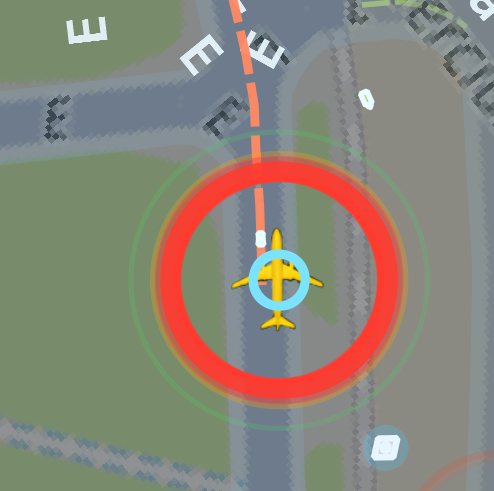
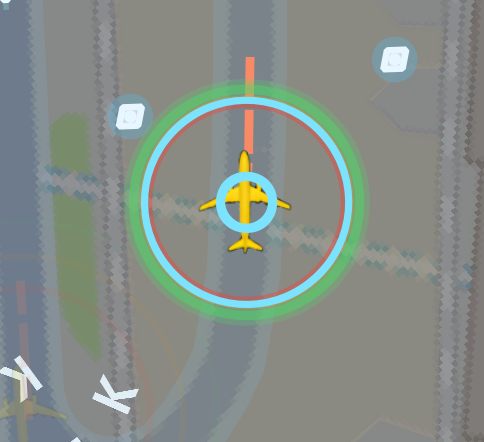
Sync README with new screenshot titles and scenarios

diff --git a/README.md b/README.md
@@ -27,48 +27,48 @@ Las siguientes capturas muestran el comportamiento operativo del radar en escena
 
 Guarda tus imagenes en docs/images con estos nombres para mantener la galeria sincronizada:
 
-- 01-ruta-directa-alerta.png
-- 02-rama-predictiva-alerta.png
-- 03-anillo-critico.png
+- 01-anillo-critico-trayectoria-peligrosa.png
+- 02-anillo-sin-amenaza-trayectoria-segura.png
+- 03-anillo-critico.-trayectoria critica.png
 - 04-anillo-estable.png
-- 05-tooltip-operativo.png
-- 06-contexto-zoom-out.png
+- 05-anillo-critico-trayectoria-critica.png
+- 06-anillo-semi-critico-trayectoria-critica.png
 
-### 1) Ruta directa con alerta de proximidad
+### 1) 01-anillo-critico-trayectoria-peligrosa
 
-![Ruta directa con alerta](docs/images/01-ruta-directa-alerta.png)
+![01-anillo-critico-trayectoria-peligrosa](docs/images/01-anillo-critico-trayectoria-peligrosa.png)
 
 Lectura: aeronave seleccionada con halo cian y anillo rojo dominante, indicando condicion de riesgo en el entorno inmediato mientras sigue una trayectoria proyectada la cual al encontrarse el color anaranjado indica una posible colision.
 
-### 2) Prediccion de ramas de trayectoria
+### 2) 02-anillo-sin-amenaza-trayectoria-segura
 
-![Rama predictiva](docs/images/02-rama-predictiva-alerta.png)
+![02-anillo-sin-amenaza-trayectoria-segura](docs/images/02-anillo-sin-amenaza-trayectoria-segura.png)
 
 Lectura: se observan ramificaciones punteadas en azul que representan alternativas de movimiento seguro en nodos cercanos de la red de rodaje.
 
-### 3) Estado critico consolidado
+### 3) 03-anillo-critico.-trayectoria critica
 
-![Anillo critico](docs/images/03-anillo-critico.png)
+![03-anillo-critico.-trayectoria critica](docs/images/03-anillo-critico.-trayectoria%20critica.png)
 
-Lectura: anillo rojo amplio y persistente con capas externas de referencia, util para priorizacion visual de amenazas en tiempo real.
+Lectura: trayectoria critica con anillo rojo consolidado y capas de soporte, priorizando la atencion del operador sobre posible conflicto.
 
-### 4) Estado estable con margen de seguridad
+### 4) 04-anillo-estable
 
-![Anillo estable](docs/images/04-anillo-estable.png)
+![04-anillo-estable](docs/images/04-anillo-estable.png)
 
-Lectura: predominio de anillos cian y verde, con menor presencia de niveles de riesgo altos, asociado a una situacion de menor conflicto.
+Lectura: estado estable con predominio de anillos de menor severidad, apropiado para seguimiento normal de superficie.
 
-### 5) Tooltip operativo con contexto de sensor
+### 5) 05-anillo-critico-trayectoria-critica
 
-![Tooltip operativo](docs/images/05-tooltip-operativo.png)
+![05-anillo-critico-trayectoria-critica](docs/images/05-anillo-critico-trayectoria-critica.png)
 
-Lectura: panel emergente con callsign, heading, speed, comportamiento, y resumen de sensor (objeto mas cercano y bandas G/Y/R).
+Lectura: combinacion de trayectoria critica y anillos de alta severidad, con panel de datos operativos para evaluar decision inmediata.
 
-### 6) Vista de contexto (zoom out)
+### 6) 06-anillo-semi-critico-trayectoria-critica
 
-![Contexto zoom out](docs/images/06-contexto-zoom-out.png)
+![06-anillo-semi-critico-trayectoria-critica](docs/images/06-anillo-semi-critico-trayectoria-critica.png)
 
-Lectura: vista amplia para entender la posicion relativa de la aeronave respecto al entramado de calles y sectores del aeropuerto.
+Lectura: escenario semi-critico en contexto amplio, util para analizar trayectoria critica con mayor conciencia espacial alrededor del actor principal.
 
 ## Interpretacion visual rapida
 
@@ -77,6 +77,7 @@ Lectura: vista amplia para entender la posicion relativa de la aeronave respecto
 - Anillo verde: zona de margen seguro.
 - Anillo amarillo: advertencia temprana.
 - Anillo rojo: condicion critica o conflicto de alta prioridad.
+- Semi-critico: transicion entre advertencia y riesgo alto, requiere vigilancia activa.
 
 ## Stack tecnologico
 
